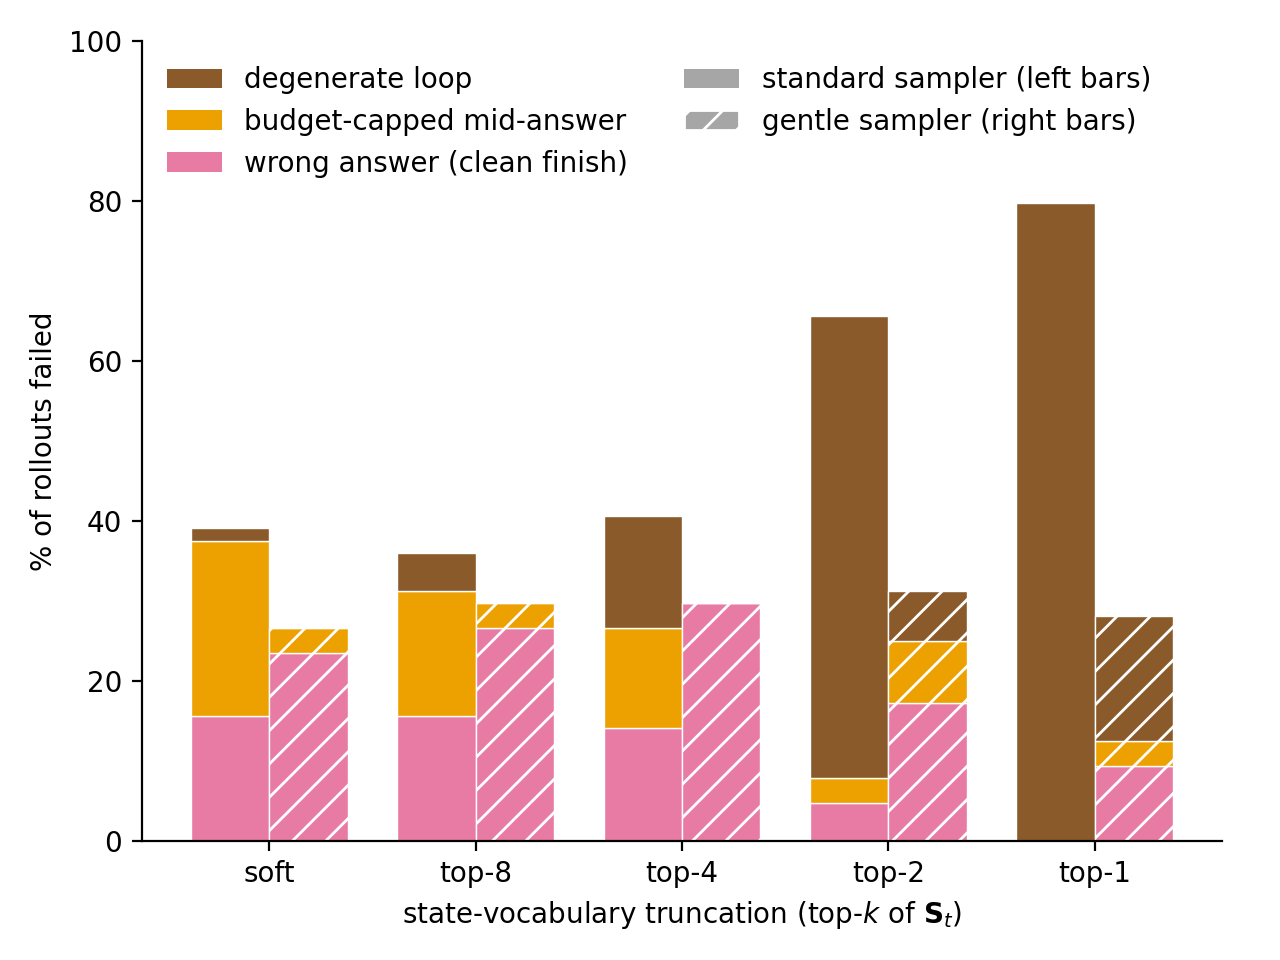
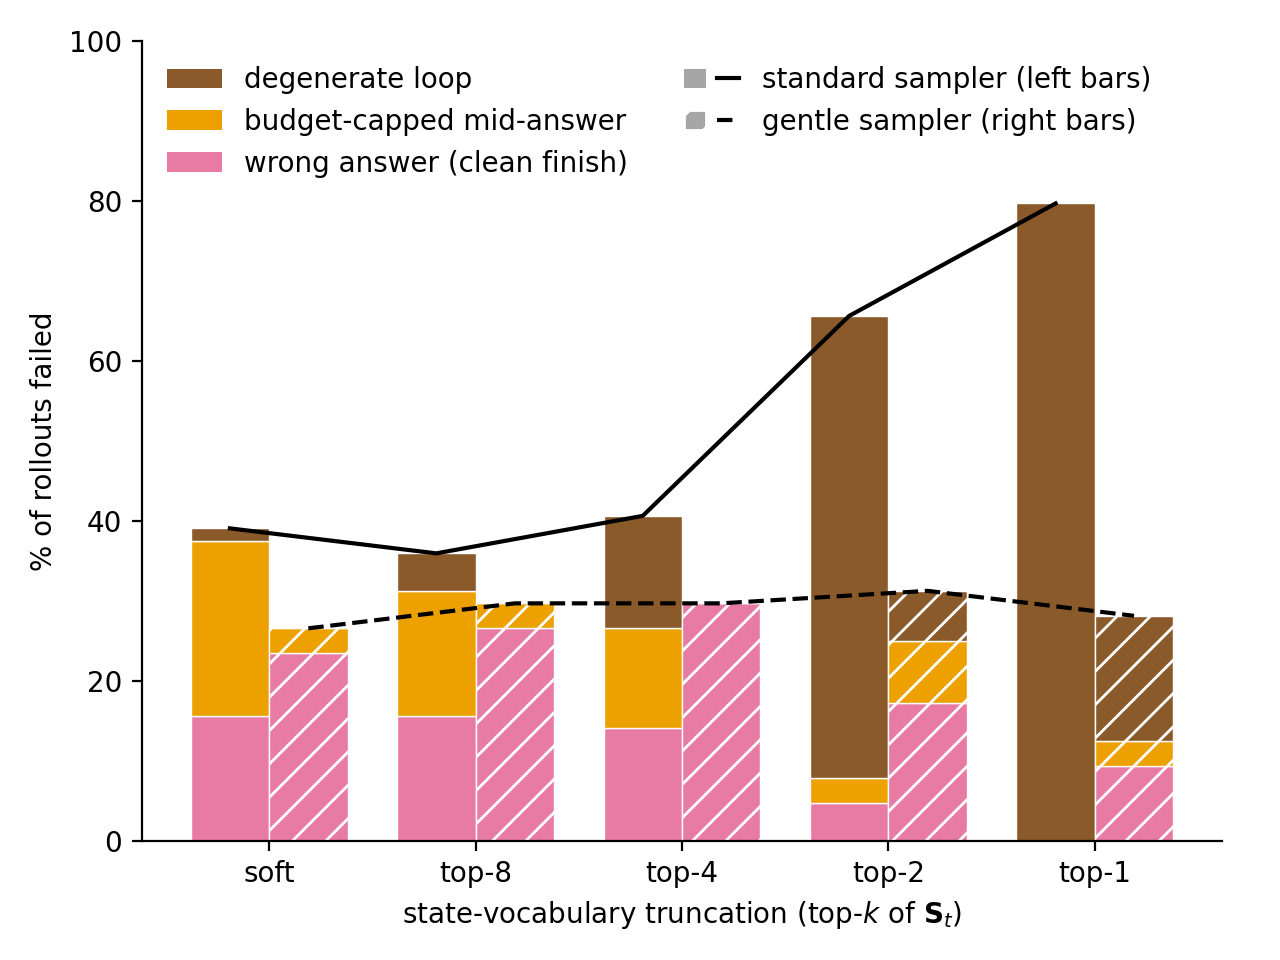
Fig 1: connect bar tops (solid = standard, dashed = gentle)
Claude-Session: https://claude.ai/code/session_01U8CiyQ7ySpBDkYEq4FzNBU

diff --git a/scripts/fig1_trunc_failures.py b/scripts/fig1_trunc_failures.py
@@ -63,6 +63,7 @@ for r in RUNGS:
 fig, ax = plt.subplots()
 x = np.arange(len(RUNGS))
 w = 0.38
+tops = {}
 for s, off, alpha in (("std", -w / 2, 1.0), ("gentle", w / 2, 1.0)):
     bottom = np.zeros(len(RUNGS))
     for fm in FMS:
@@ -72,16 +73,24 @@ for s, off, alpha in (("std", -w / 2, 1.0), ("gentle", w / 2, 1.0)):
                hatch=None if s == "std" else "//",
                label=FMLAB[fm] if s == "std" else None)
         bottom += vals
+    tops[s] = (x + off, bottom.copy())
+ax.plot(*tops["std"], color="black", linestyle="-")
+ax.plot(*tops["gentle"], color="black", linestyle="--")
 
 ax.set_xticks(x, [RUNG_LAB[r] for r in RUNGS])
 ax.set_xlabel(r"state-vocabulary truncation (top-$k$ of $\mathbf{S}_t$)")
 ax.set_ylabel("% of rollouts failed")
 ax.set_ylim(0, 100)
+from matplotlib.legend_handler import HandlerTuple
+from matplotlib.lines import Line2D
 from matplotlib.patches import Patch
-handles = [Patch(facecolor=FMCOL[fm], label=FMLAB[fm]) for fm in FMS[::-1]]
-handles += [Patch(facecolor="0.65", label="standard sampler (left bars)"),
-            Patch(facecolor="0.65", hatch="//", edgecolor="white", label="gentle sampler (right bars)")]
-ax.legend(handles=handles, loc="upper left", frameon=False, ncols=2)
+handles = [Patch(facecolor=FMCOL[fm]) for fm in FMS[::-1]]
+labels = [FMLAB[fm] for fm in FMS[::-1]]
+handles += [(Patch(facecolor="0.65"), Line2D([], [], color="black")),
+            (Patch(facecolor="0.65", hatch="//", edgecolor="white"), Line2D([], [], color="black", linestyle="--"))]
+labels += ["standard sampler (left bars)", "gentle sampler (right bars)"]
+ax.legend(handles, labels, loc="upper left", frameon=False, ncols=2,
+          handler_map={tuple: HandlerTuple(ndivide=None)})
 ax.spines[["top", "right"]].set_visible(False)
 fig.tight_layout()
 fig.savefig(OUT / "fig1_gpqa_trunc_failures.png", dpi=200)

diff --git a/post.md b/post.md
@@ -54,7 +54,7 @@ We consider a task that requires DG to make an unspecified choice, and to do a c
 
 DG answers these correctly on its own (e.g. ```Letters: G, J```). We then capture at some intermediate denoising step $t$, add probability mass $\varepsilon$ on a *different* source letter $x$ at the operand position. Importantly, we choose the injection such that $\mathbf{S}^t[x]+\epsilon$ is still not the top logit. This is important, because we would like to measure what DG does to states that are not the most likely ones.
 
-Then, we measure the response to that perturbation $\mathbf{R}[x'_{i+1}\vert\mathrm{pert}(x_i)] = \log_{10}\big(\bar{\mathbf{S}}_{\mathrm{pert}}^{t+1}[x'_{i+1}]\, / \,\bar{\mathbf{S}}_{\mathrm{base}}^{t+1}[x'_{i+1}]\big)$, where $\bar P$ averages over the paired draws.
+Then, we measure the response to that perturbation $\mathbf{R}[x'_{i+1}\vert\mathrm{pert}(x_i)] = \log_{10}\big(\bar{\mathbf{S}}_{\mathrm{pert}}^{t+1}[x'_{i+1}]\, / \,\bar{\mathbf{S}}_{\mathrm{base}}^{t+1}[x'_{i+1}]\big)$, where $\bar{ \mathbf{S}}$ averages over the paired draws.
 
 ![Letter-arithmetic transfer maps](figs/fig2a_transfer_map.png)
 
